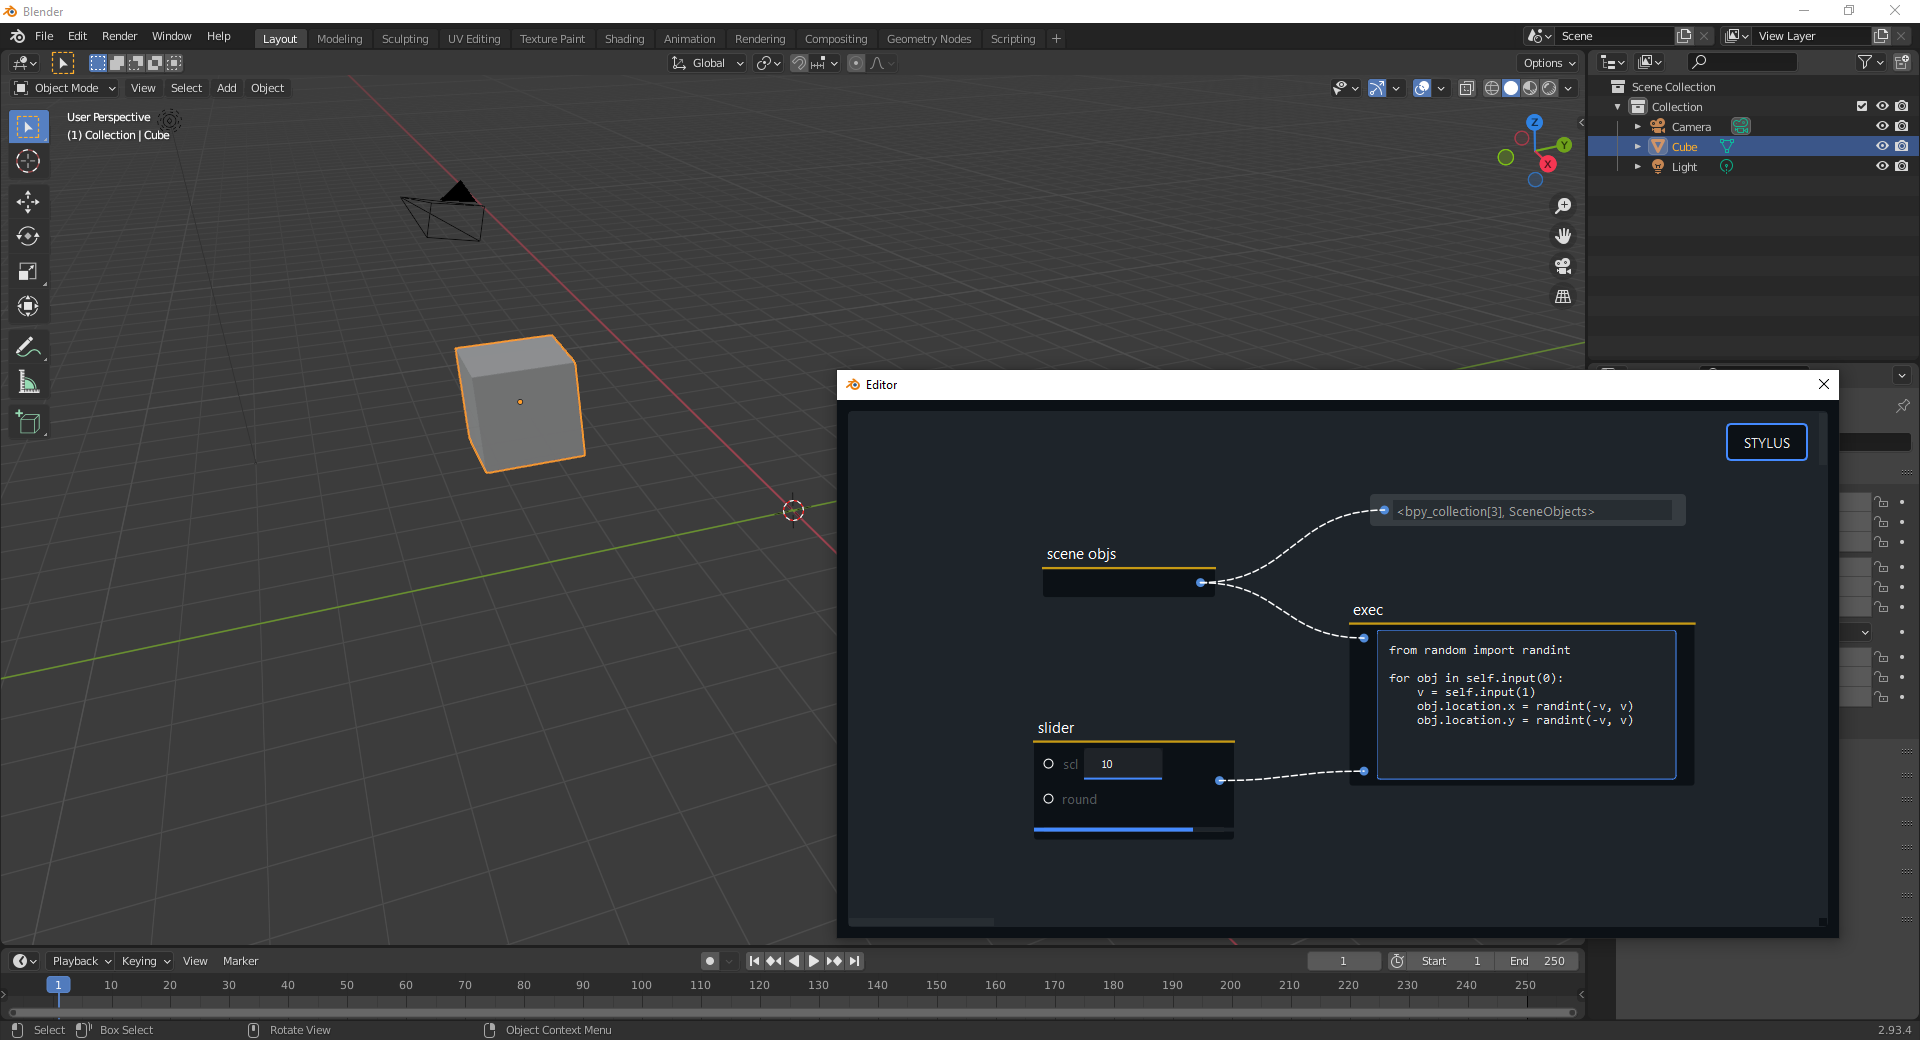
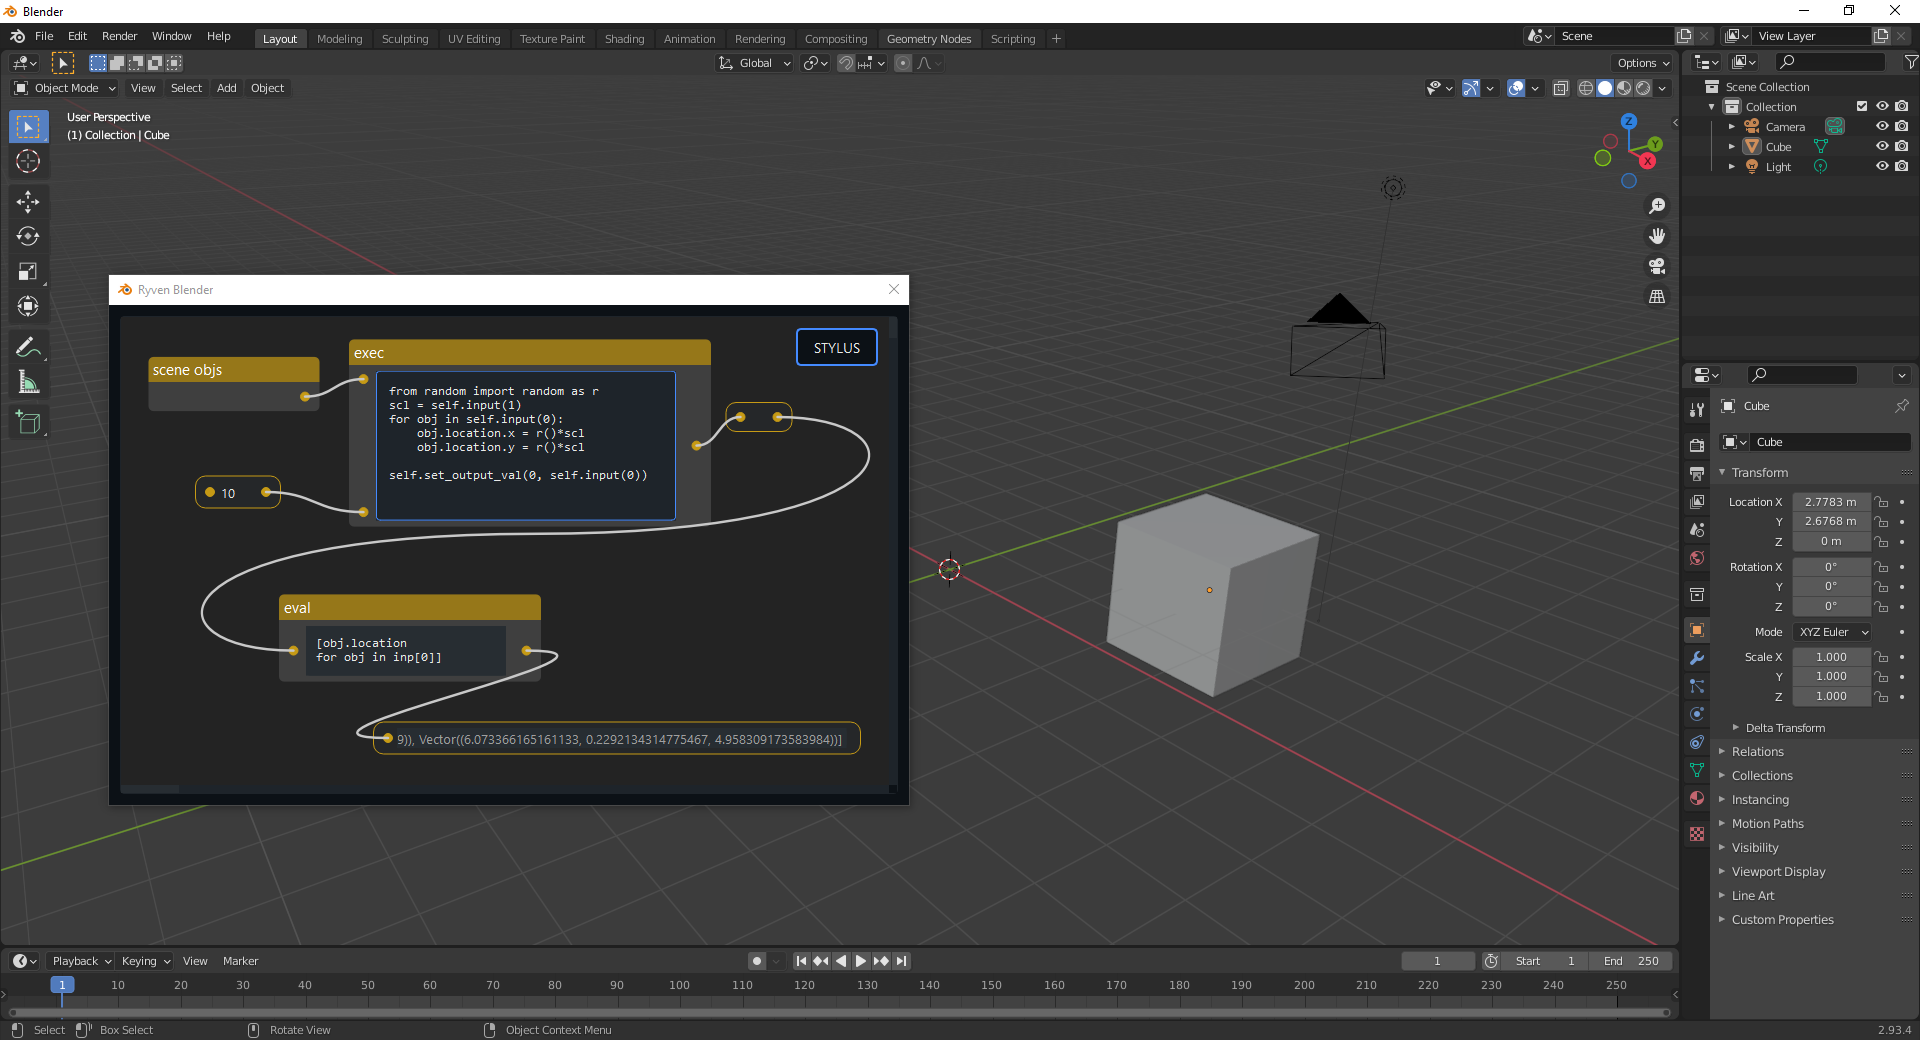
some cleanups, updated readme

diff --git a/editor.py b/editor.py
@@ -2,7 +2,7 @@ import ryvencore_qt as rc
 from PySide2.QtCore import Qt
 from PySide2.QtWidgets import QDialog, QHBoxLayout, QApplication
 
-from .nodes import export_nodes
+from .nodes.basic import export_nodes as nodes_basic
 
 
 class EditorWindow(QDialog):
@@ -11,17 +11,37 @@ class EditorWindow(QDialog):
 
         self.apply_stylesheet()
         self.resize(800, 500)
-        self.setWindowTitle('Editor')
+        self.setWindowTitle('Ryven Blender')
 
         self.setLayout(QHBoxLayout())
 
-        self.session = rc.Session(flow_theme_name='pure dark', performance_mode='fast')
-        self.session.register_nodes(export_nodes)
-        self.script = self.session.create_script('main')
+        # build core
+        self.session = rc.Session(
+            flow_theme_name='Blender',
+            performance_mode='fast',
+        )
+        self.session.register_nodes(
+            nodes_basic
+        )
+        self.script = self.session.create_script(
+            title='main',
+            create_default_logs=False,
+            flow_view_size=[10000, 10000],
+        )
 
-        self.layout().addWidget(self.session.flow_views[self.script])
+        self.layout().addWidget(
+            self.session.flow_views[self.script]
+        )
+
+        ...
 
     def apply_stylesheet(self):
+        """
+        Applies a Ryven-based stylesheet to the editor window.
+        Even though this dialog will get the Blender window as parent, the inherited styling produces lots of problems
+        so far, but ultimately it would be cool to inherit Blender's widget styling (without issues).
+        """
+
         import os
         f = open(os.path.join(os.path.dirname(__file__), 'styles_template.css'))
 
@@ -48,18 +68,10 @@ class EditorWindow(QDialog):
         def hex_to_rgb(hex: str):
             return tuple(int(hex[i:i + 2], 16) for i in (1, 3, 5))
 
-        app.setStyleSheet(jinja_template.render(
-            {
-                # colors
-                **colors,
-
-                # rgb inline versions
-                **{
-                    'rgb_inline_' + cname: str(hex_to_rgb(val))[1:-1]
-                    for cname, val in colors.items()
-                },
-
-                # # additional rules
-                # 'font_family': 'Roboto',
-            }
-        ))
+        app.setStyleSheet(jinja_template.render({
+            **colors,
+            **{     # rgb inline versions
+                'rgb_inline_' + cname: str(hex_to_rgb(val))[1:-1]
+                for cname, val in colors.items()
+            },
+        }))

diff --git a/__init__.py b/__init__.py
@@ -4,14 +4,19 @@ from PySide2.QtWidgets import QApplication
 
 bl_info = {
     "name": "Open Ryven Editor",
+    "author": "Leon Thomm",
+    "version": (0, 0, 0),
+    "description": "A Ryven-like node editor plugin for Blender",
     "blender": (2, 93, 4),
     "category": "Object",
 }
 
 
 class OpenEditor(bpy.types.Operator):
-    bl_idname = "open.editor"
-    bl_label = "Open Ryven Editor"
+    """Just an operator to quickly reopen the editor"""
+
+    bl_idname = "ryven.open_editor"
+    bl_label = "Open Ryven Blender"
 
     def execute(self, context):
         editor.show()

diff --git a/nodes/basic.py b/nodes/basic.py
@@ -6,7 +6,7 @@ import bpy
 
 
 class NodeBase(Node):
-    pass
+    identifier_prefix = 'basic'
 
 
 class ValNode(NodeBase):

diff --git a/README.md b/README.md
@@ -1,10 +1,14 @@
-![](screenshot1.png)
+### Blender plugin for Ryven-like nodes editor
 
-This project is not ready to use. It's a plugin for Blender to integrate a simple Ryven-like editor, but there are lots of features, and especially nodes, still missing. If you have ideas for how to combine the flow structure with the Blender Python API, please consider contributing.
+This repo can be used as Blender plugin to integrate a simple Ryven-like editor, but there are practically no nodes yet. **If you know the Blender Python API or want to get into it, please consider contributing by creating nodes**.
+
+While Blender itself already has an impressive built-in node editor system, the simplicity of Ryven together with the extensive Blender Python API might enable extremely rapid development of new sophisticated nodes.
+
+![](screenshot1.png)
 
 ## setup
 
-To integrate the plugin you need to have Blender installed and access to Blender's local Python installation. Using *this* Python installation, install [`ryvencore-qt`](https://github.com/leon-thomm/ryvencore-qt)
+Using *Blender's local Python installation*, install [`ryvencore-qt`](https://github.com/leon-thomm/ryvencore-qt)
 
 ```
 pip install ryvencore-qt
@@ -18,4 +22,6 @@ However, you probably have a global Python installation already on your system, 
 
 where `<BP>` is the path to your Blender installation and `<ver>` is the version.
 
-Then place this repository under `<BP>/<ver>/scripts/addons/` and restart blender. Under `Edit => Preferences => Add-ons` you should now find `Open Ryven Editor` as command.
+Then place this repository under `<BP>/<ver>/scripts/addons/` and restart blender. Under `Edit => Preferences => Add-ons` you should now find `Open Ryven Editor`. If not, click `install` and select the `ryven-blender/__init__.py` file.
+
+By pressing `F3` in Blender you should now find `Open Ryven Editor` as command which simply shows the editor window, closing the Ryven editor window doesn't kill its content.
